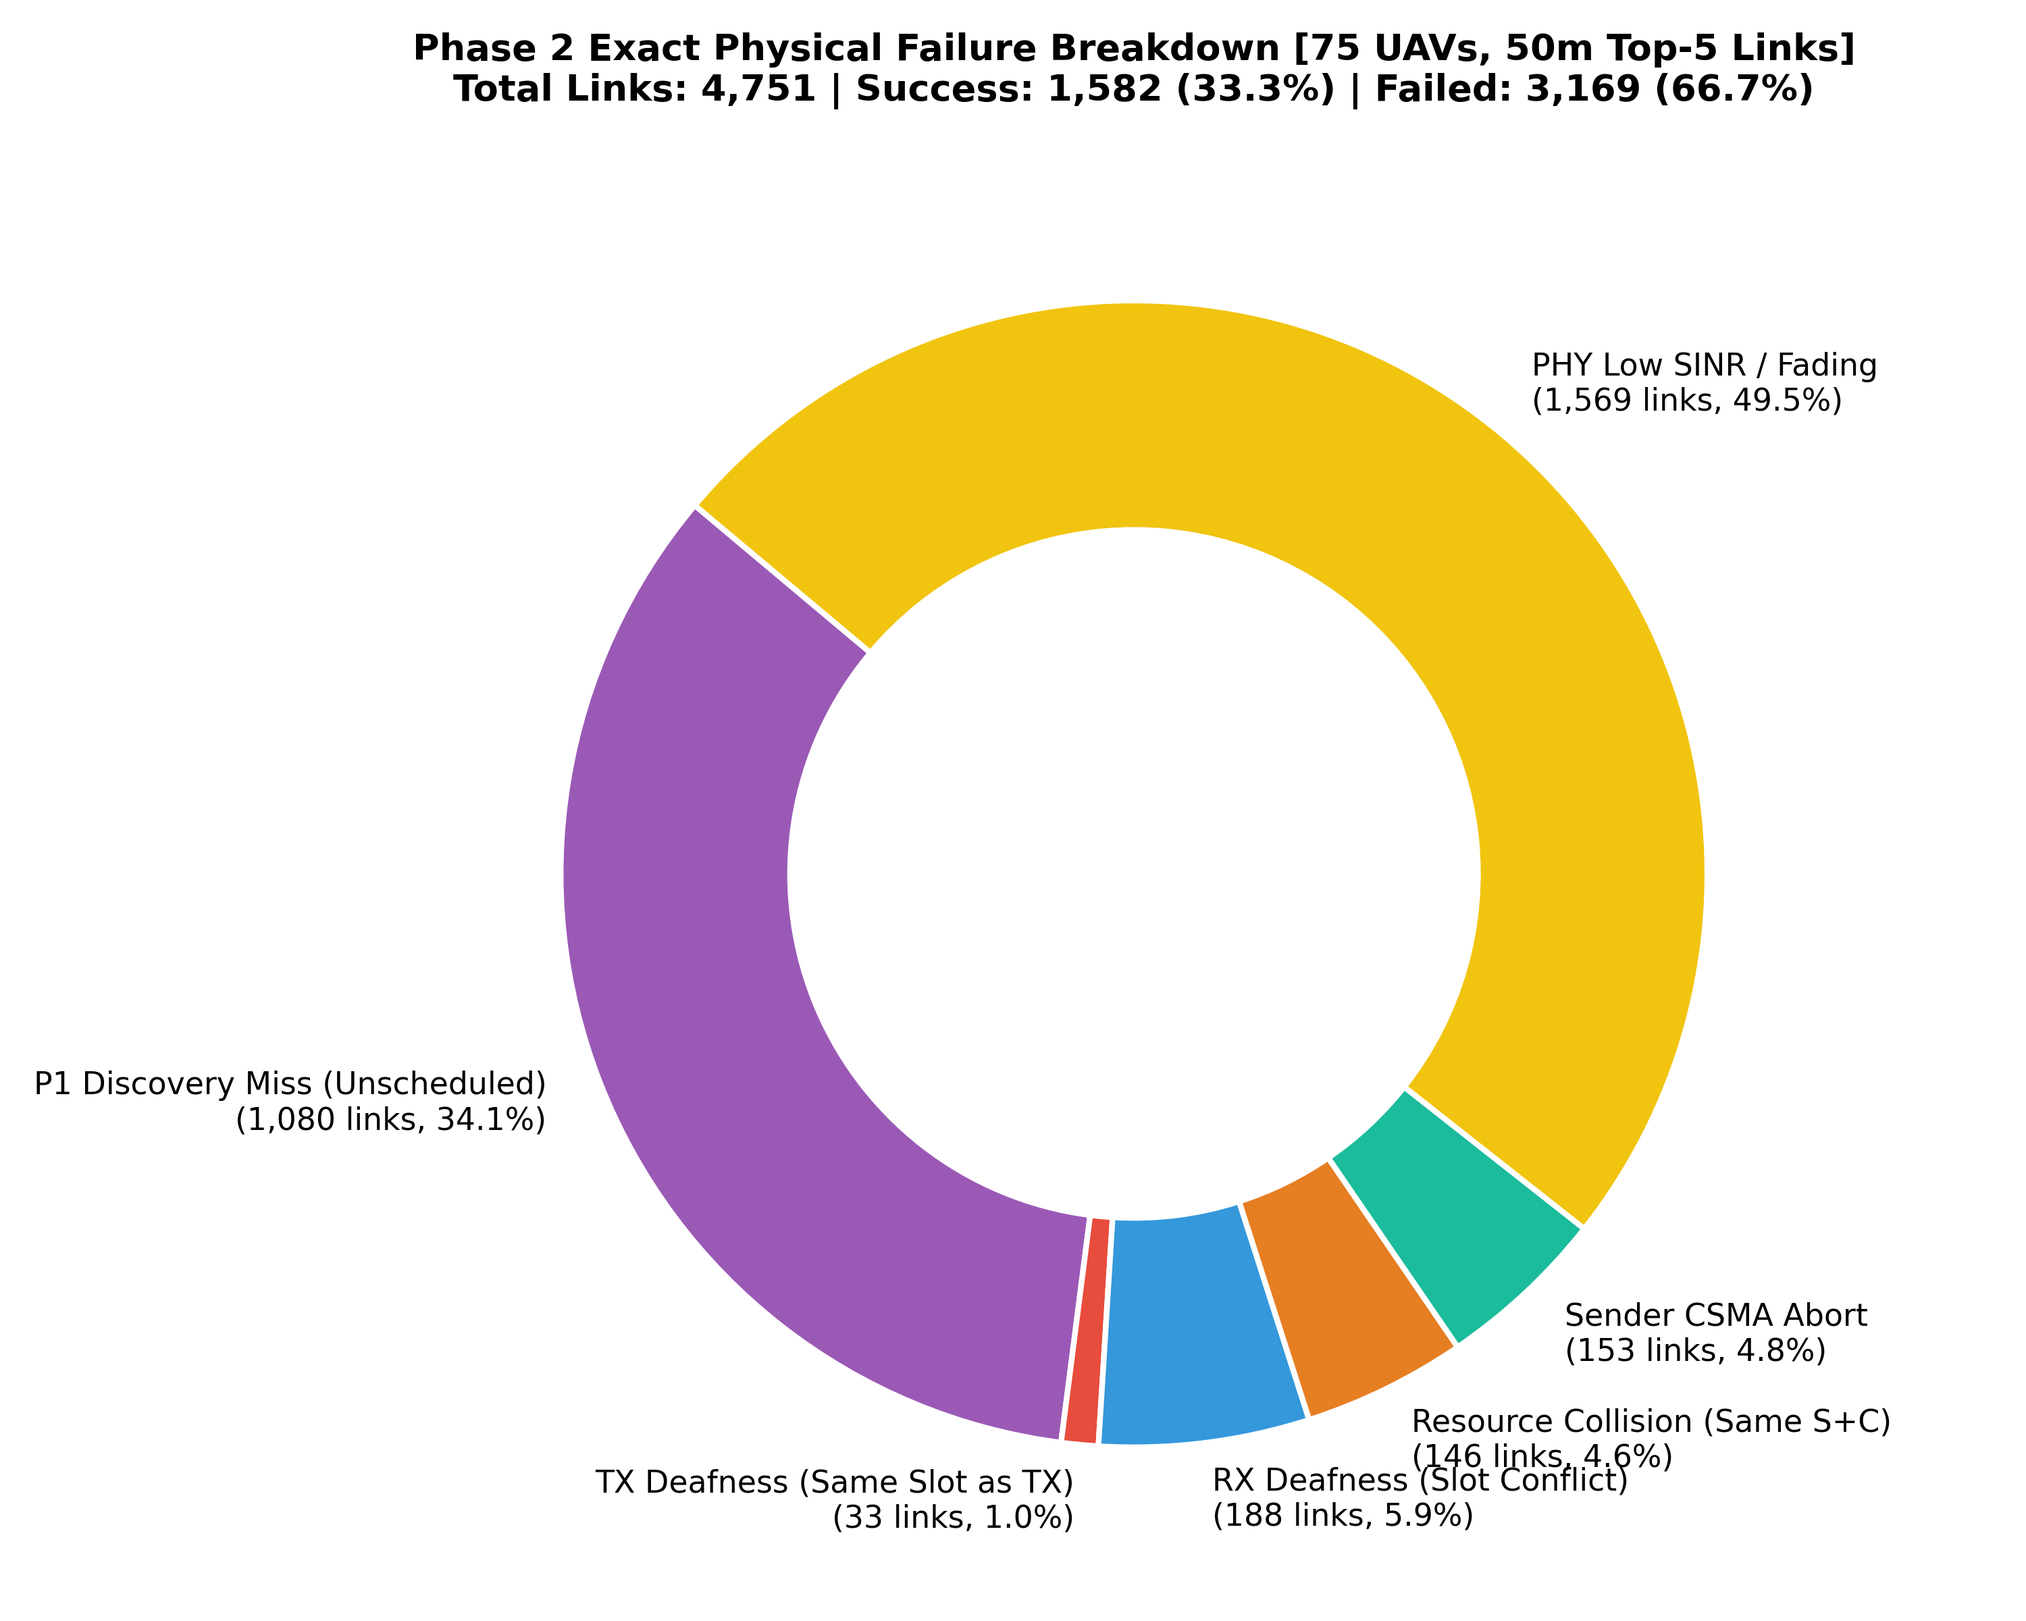
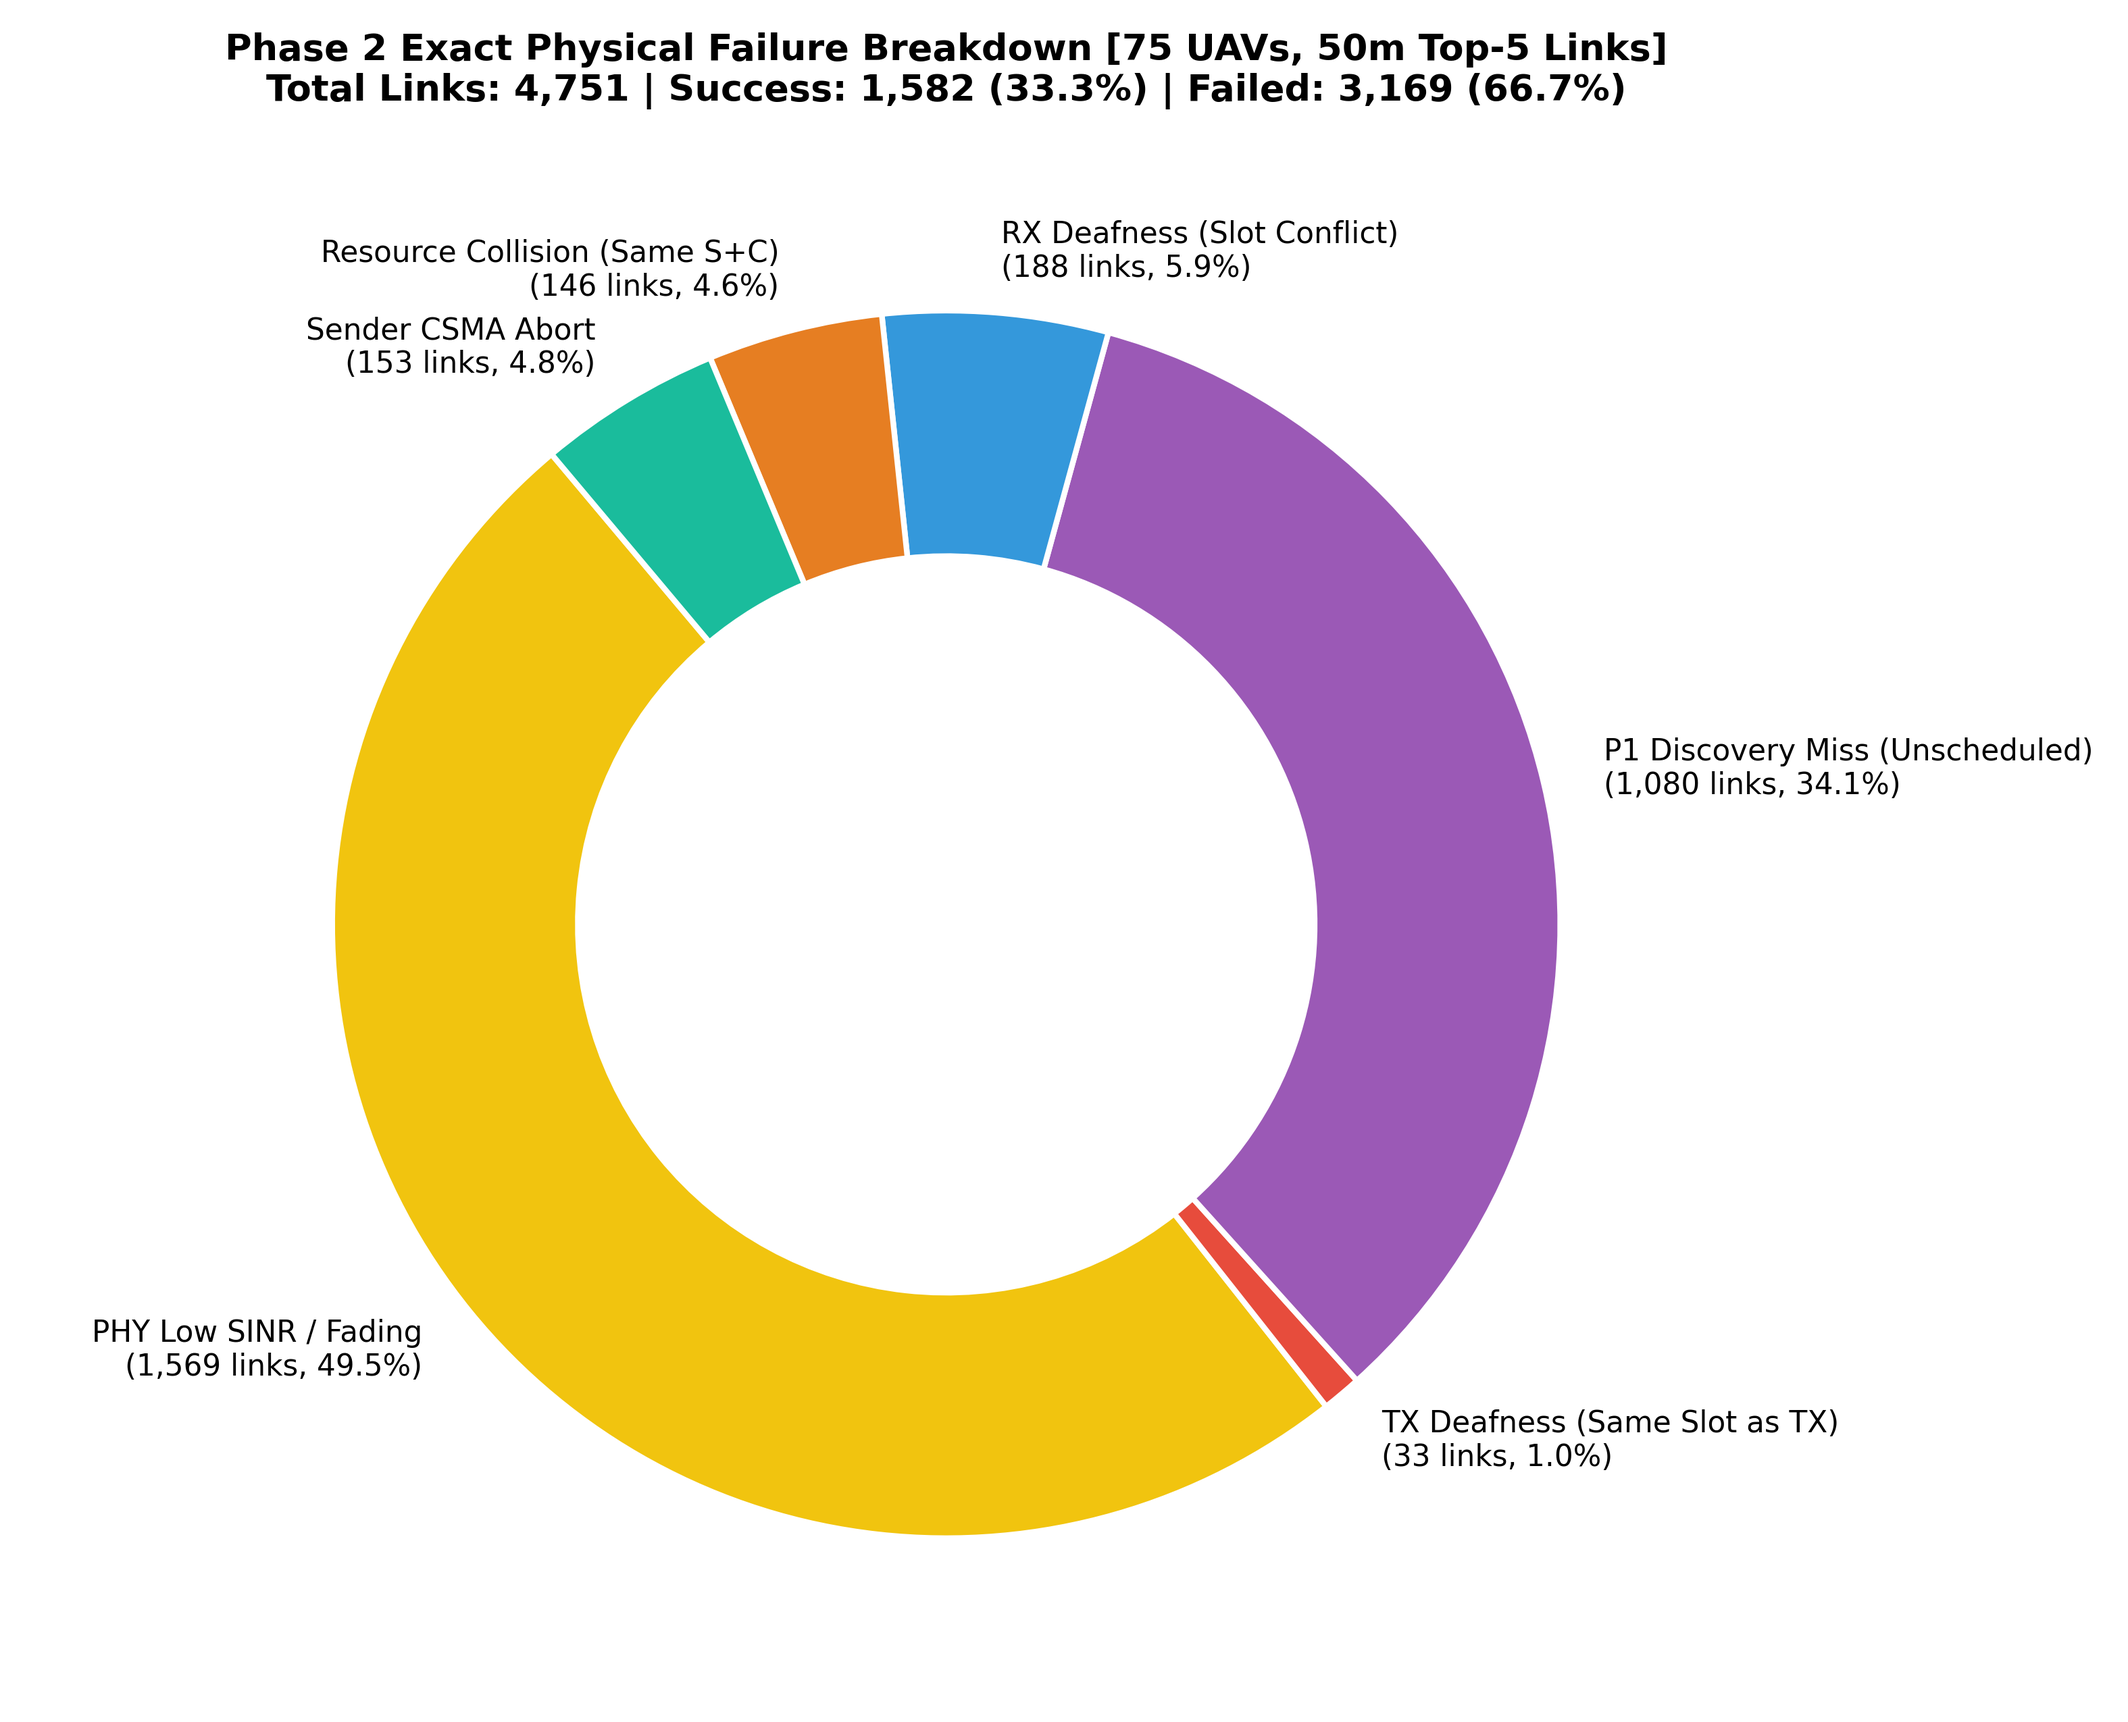
style(p2): optimize donut slice order to eliminate label overlaps

diff --git a/run_p2_exact_analysis.py b/run_p2_exact_analysis.py
@@ -125,22 +125,23 @@ try:
     plt.rcParams['axes.unicode_minus'] = False
 
     # 1. Donut Chart for Failures (Exact Original Style with Direct Slice Labels)
+    # Order structured so large slices insulate smaller slices, preventing text overlap
     labels_map = {
-        "P1_DISCOVERY_MISS": "P1 Discovery Miss (Unscheduled)",
+        "PHY_LOW_SINR_OR_FADING": "PHY Low SINR / Fading",
         "TX_DEAFNESS_SAME_SLOT": "TX Deafness (Same Slot as TX)",
+        "P1_DISCOVERY_MISS": "P1 Discovery Miss (Unscheduled)",
         "RX_DEAFNESS_SLOT_CONFLICT": "RX Deafness (Slot Conflict)",
         "RESOURCE_COLLISION_SAME_SLOT_CH": "Resource Collision (Same S+C)",
-        "SENDER_CSMA_ABORT": "Sender CSMA Abort",
-        "PHY_LOW_SINR_OR_FADING": "PHY Low SINR / Fading"
+        "SENDER_CSMA_ABORT": "Sender CSMA Abort"
     }
 
     colors_map = {
-        "P1_DISCOVERY_MISS": "#9b59b6",                 # Purple (Phase 1 cascade)
+        "PHY_LOW_SINR_OR_FADING": "#f1c40f",             # Yellow (Fading/Noise)
         "TX_DEAFNESS_SAME_SLOT": "#e74c3c",             # Coral Red (Transmitting)
+        "P1_DISCOVERY_MISS": "#9b59b6",                 # Purple (Phase 1 cascade)
         "RX_DEAFNESS_SLOT_CONFLICT": "#3498db",         # Sky Blue (Listening to someone else)
         "RESOURCE_COLLISION_SAME_SLOT_CH": "#e67e22",   # Deep Orange (Co-channel collision)
-        "SENDER_CSMA_ABORT": "#1abc9c",                 # Teal (Sender backoff abort)
-        "PHY_LOW_SINR_OR_FADING": "#f1c40f"             # Yellow (Fading/Noise)
+        "SENDER_CSMA_ABORT": "#1abc9c"                  # Teal (Sender backoff abort)
     }
 
     plot_labels = []
@@ -155,14 +156,14 @@ try:
             plot_sizes.append(cnt)
             plot_colors.append(colors_map[r_key])
 
-    fig, ax = plt.subplots(figsize=(10, 8), subplot_kw=dict(aspect="equal"))
+    fig, ax = plt.subplots(figsize=(10.5, 8.5), subplot_kw=dict(aspect="equal"))
     wedges, texts = ax.pie(
         plot_sizes,
         labels=plot_labels,
         colors=plot_colors,
-        startangle=140,
+        startangle=130,
         wedgeprops=dict(width=0.4, edgecolor='white', linewidth=2),
-        textprops=dict(fontsize=11)
+        textprops=dict(fontsize=10.5)
     )
 
     ax.set_title(f"Phase 2 Exact Physical Failure Breakdown [75 UAVs, 50m Top-5 Links]\n"
